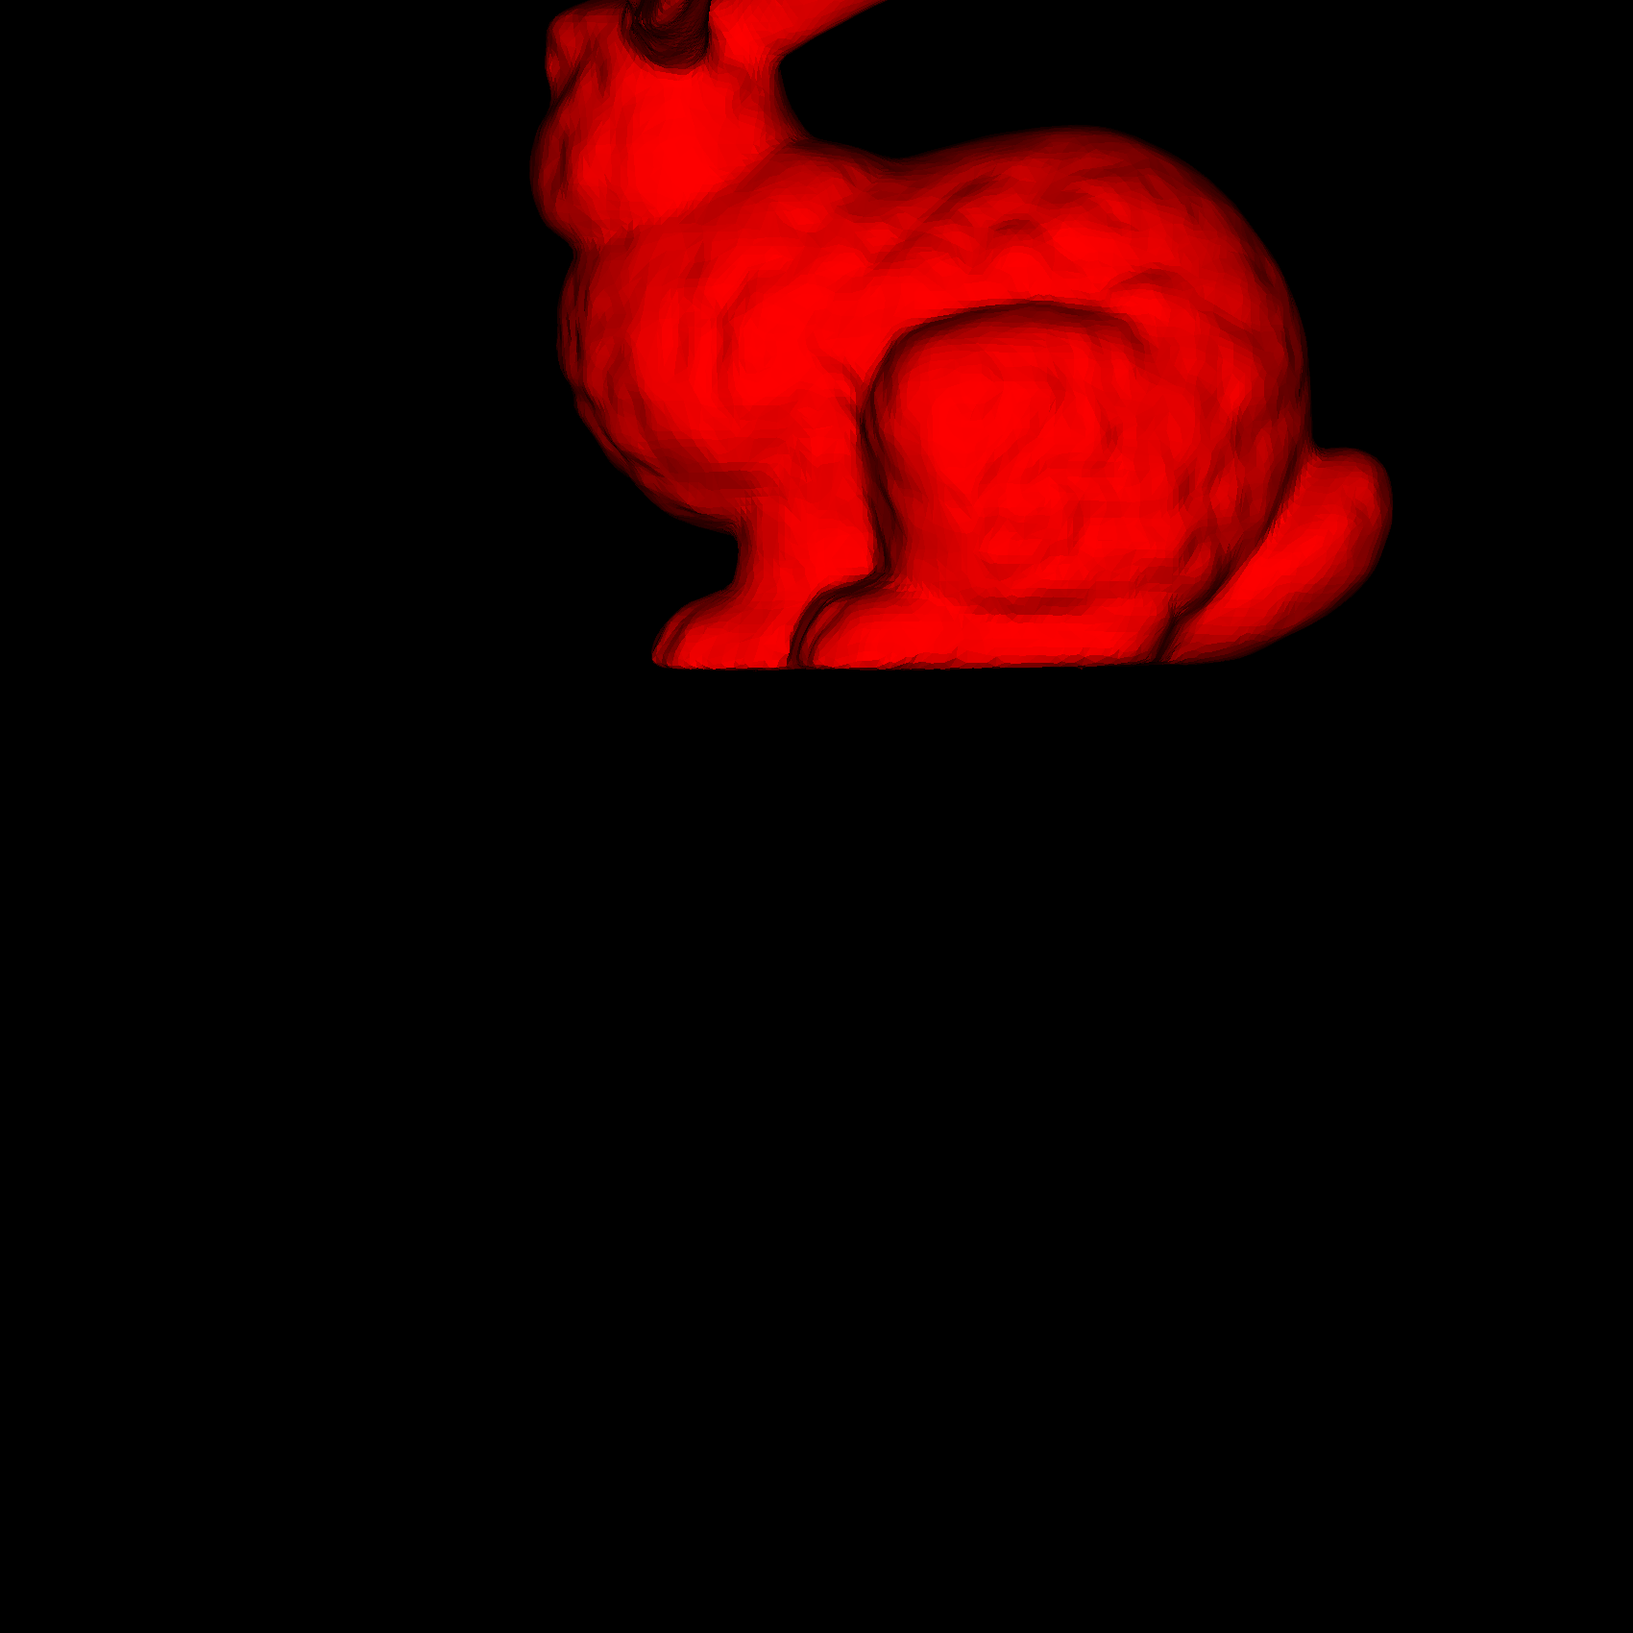
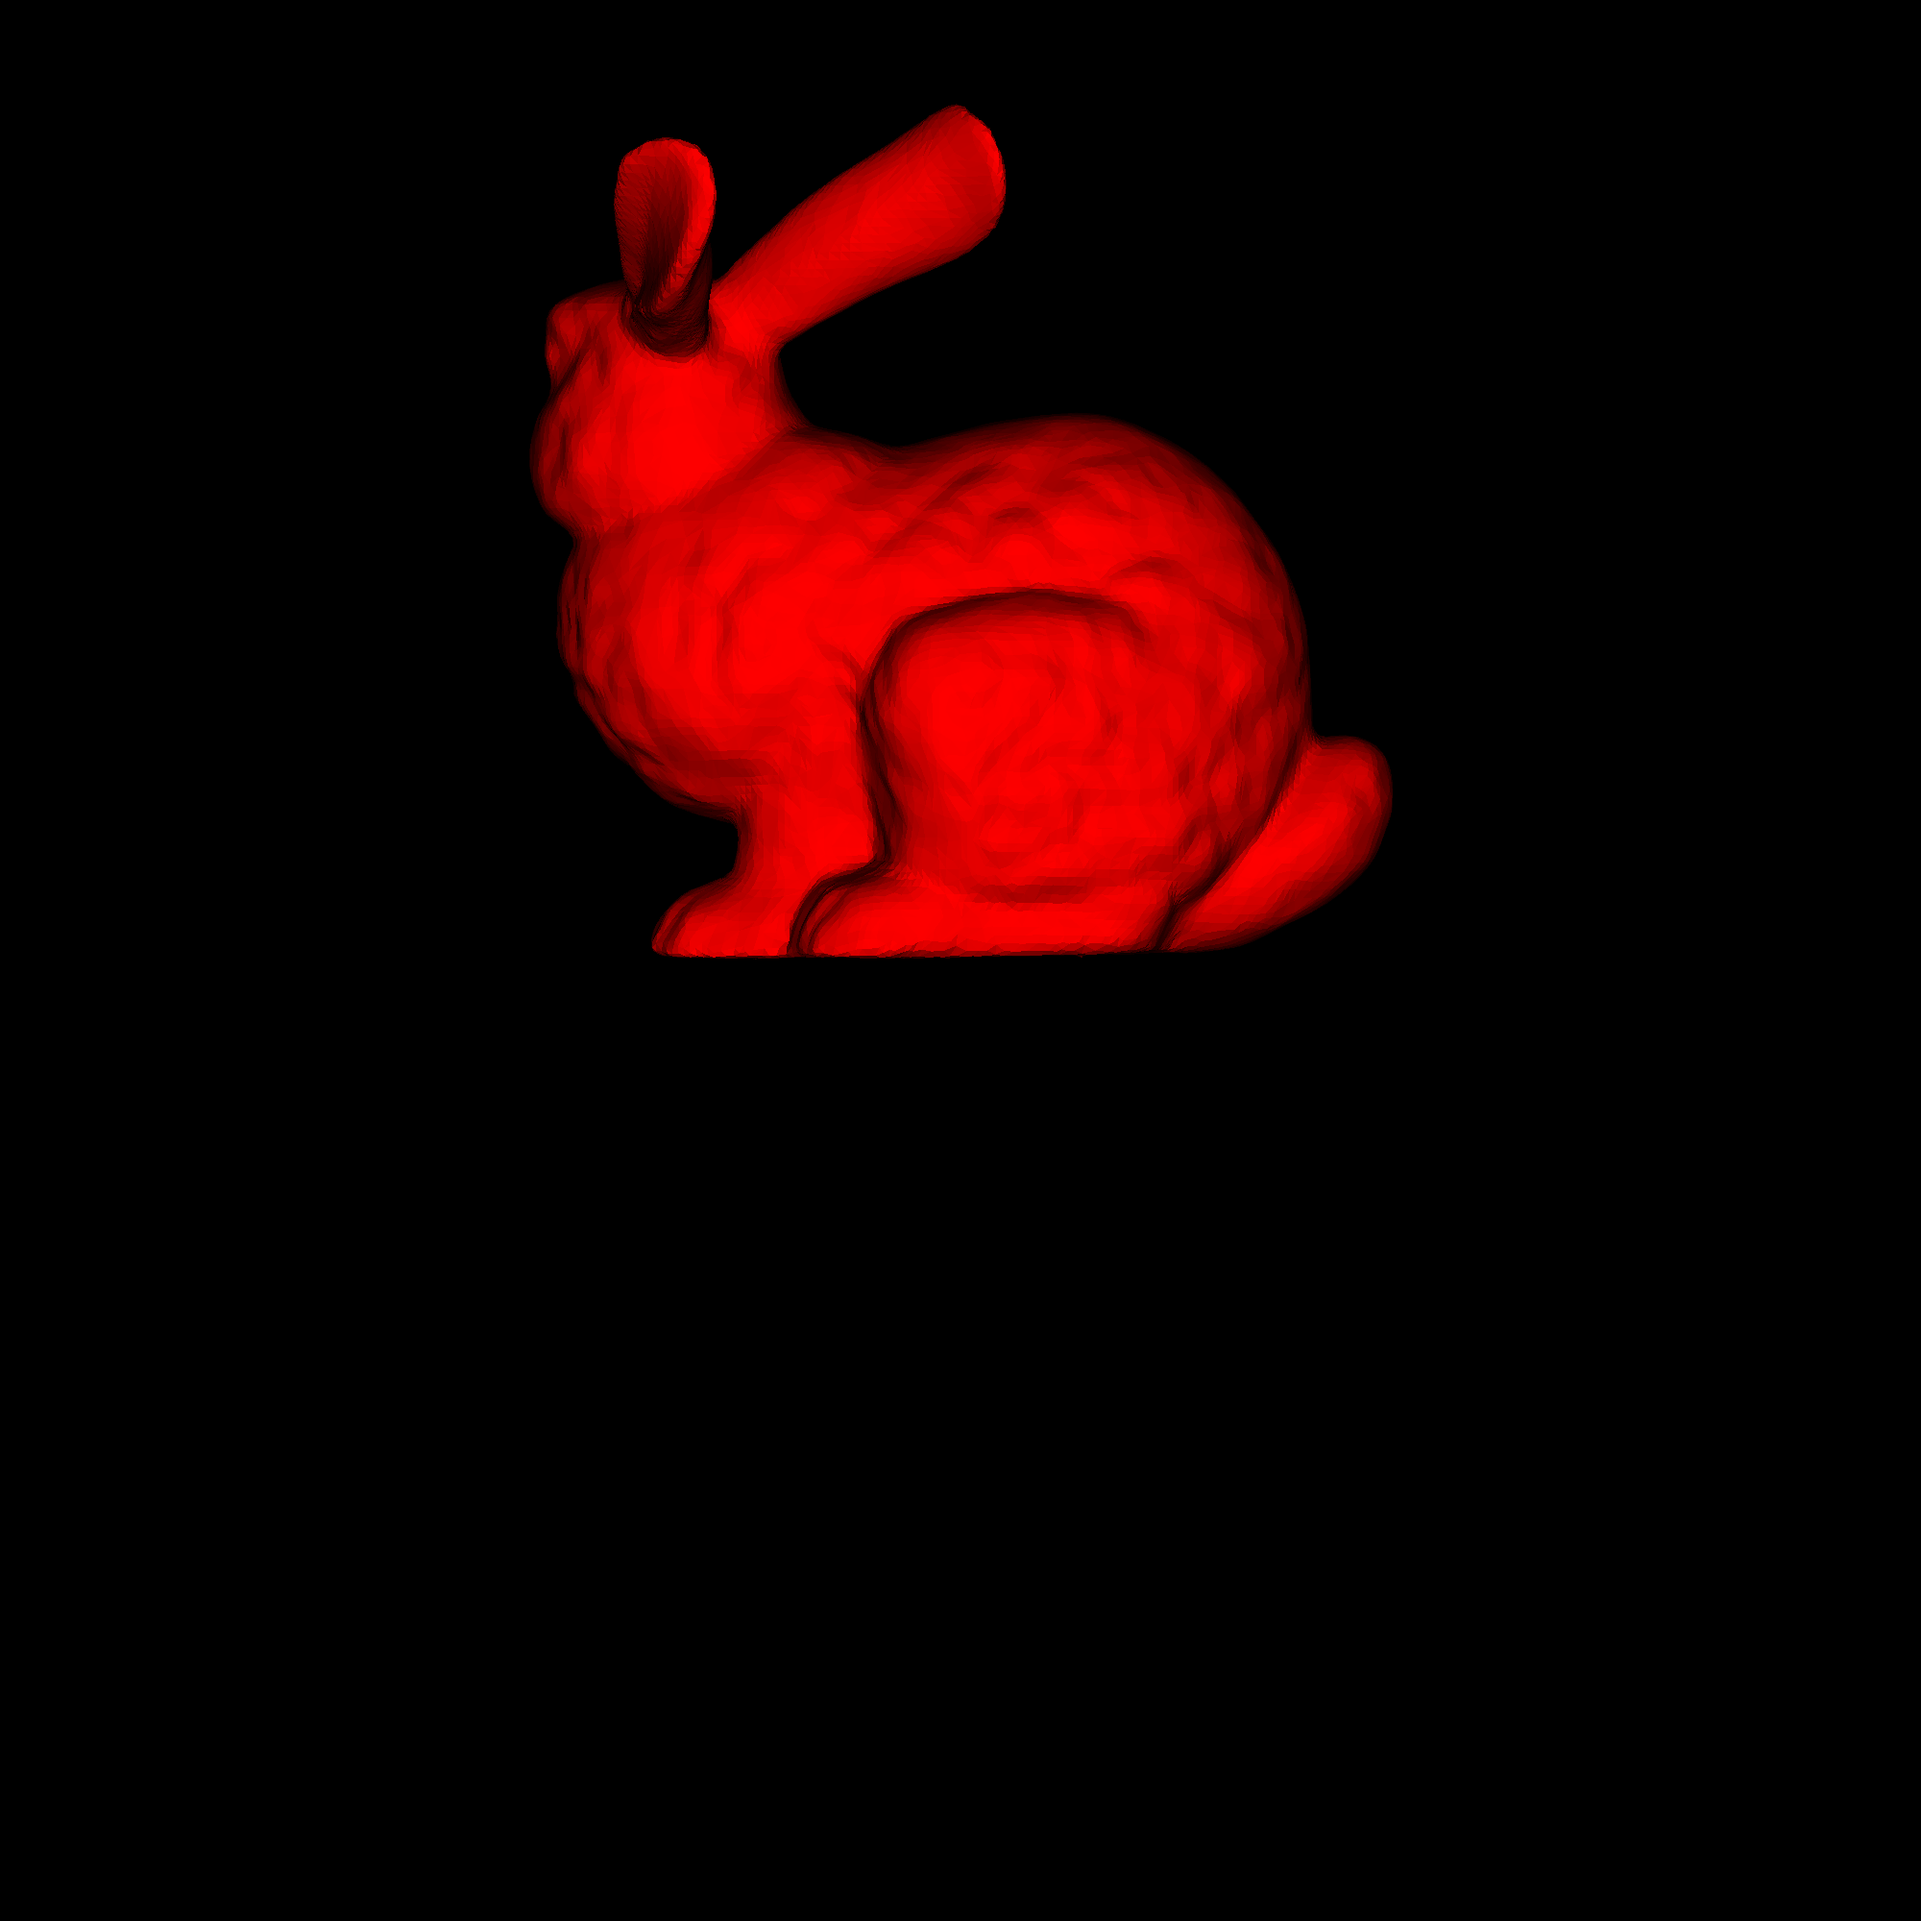
second lab

Changed region(s): [[0.2494, 0.0, 0.8729, 0.4988]]

diff --git a/ЛР 2/lab2.py b/ЛР 2/lab2.py
@@ -45,7 +45,7 @@ def draw_triangle(x0, y0, z0, x1, y1, z1, x2, y2, z2, z_buf, matrix, color):
                     matrix[y, x] = color
 
 
-img_mat = np.zeros((1700, 1700, 3), dtype=np.uint8)
+img_mat = np.zeros((2000, 2000, 3), dtype=np.uint8)
 zbuf = np.full((2000, 2000), np.inf, dtype=np.float64)
 
 
